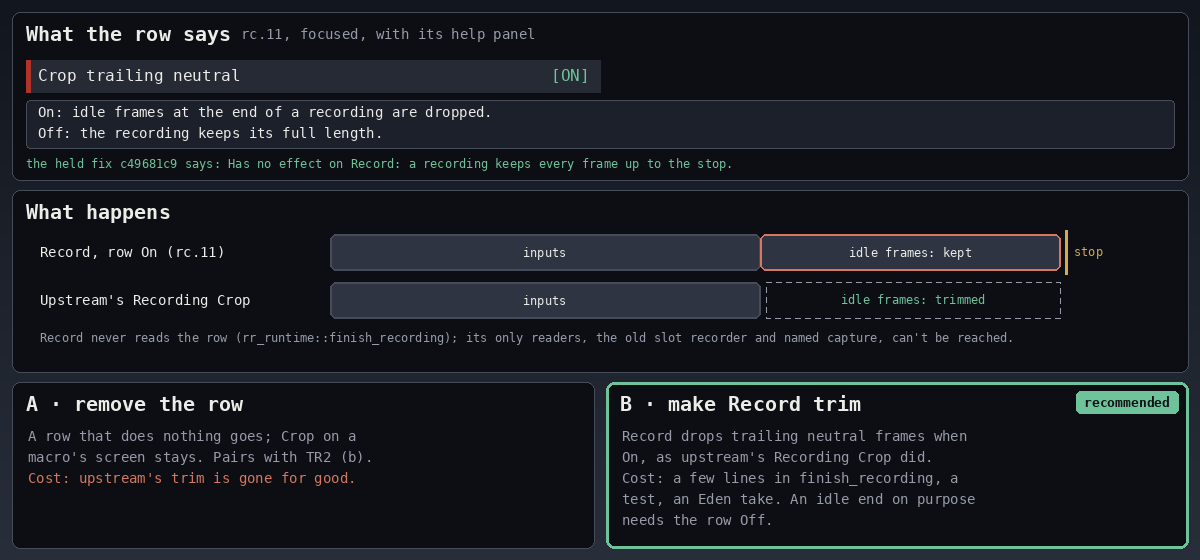
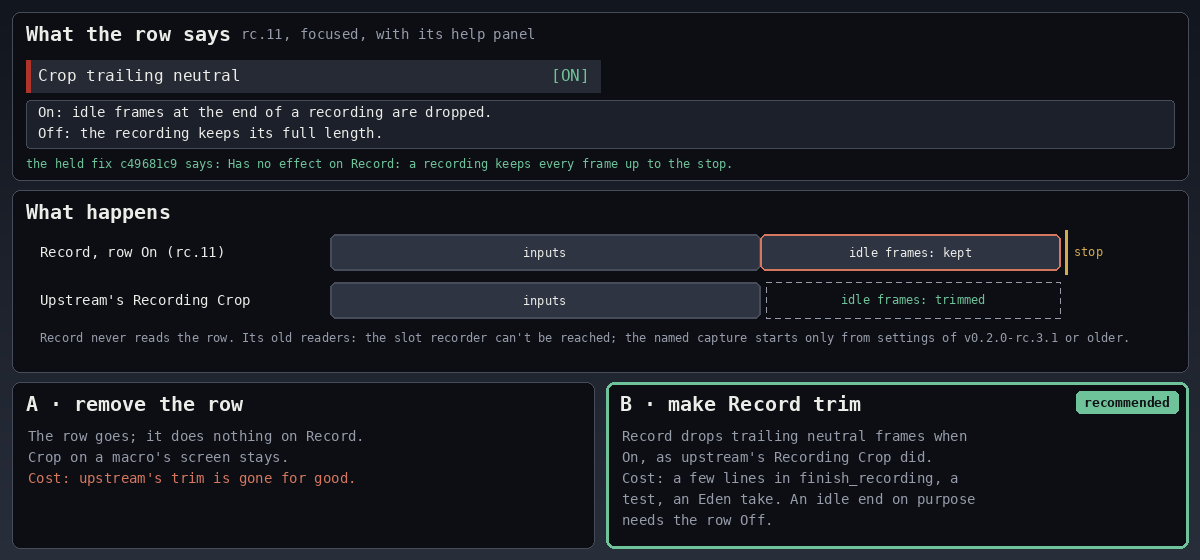
docs: DECISIONS.md TR2 gets integration's final numbers (+35 over; option (b) frees 258), and TR7 says which old reader can still run
The follow-up the primary approved at 09:58Z, from integration's 10:40Z post and artifacts/phase23/tr-fix-23-15/SIZE-OPTION-B.md.

- TR2 now counts three fixes (#23, #15, #25), measured on top of c49681c9: 147,956 against the 147,921 ceiling, +35.
  - Option (a) raises the ceiling by 35.
  - Option (b) deletes the old numbered-slot recorder. Its smallest cut touching no carried file frees 258 lines,
    which covers the 35; all of it is 1,096.
  - The old named capture (354) is no longer part of (b): settings files written by v0.1.0 to v0.2.0-rc.3.1 still
    start it. The recommendation is unchanged: (b) with TR1 A.
- TR7's text and picture: of the row's two old readers, the slot recorder can't be reached, and the named capture
  starts only from those old settings.
- render_decisions_1113.py takes OVER and B_FREES. With TR2's old values it still draws the earlier picture byte for
  byte.

Changed region(s): [[0.2158, 0.5768, 0.8325, 0.6071], [0.0308, 0.7589, 0.2775, 0.85], [0.8942, 0.5768, 0.925, 0.6071]]

diff --git a/tools/render_decisions_1113.py b/tools/render_decisions_1113.py
@@ -18,8 +18,10 @@ TILE, TILE_HI, PANEL, DARK, P1, CPU = d.TILE, d.TILE_HI, d.PANEL, d.DARK, d.P1, 
 W = d.WIDE
 MID = W // 2
 
-# TR2: what option (b) frees, in sloc4 lines, once integration has measured it (None: still measuring).
-B_FREES = None
+# TR2, sloc4 lines (integration's 10:40Z post): how far c49681c9 plus integration's #23, #15 and #25 go over the
+# ceiling, and what option (b) frees: the smallest cut of the old numbered-slot recorder that touches no carried file.
+OVER = 35
+B_FREES = 258
 
 
 # ---------------------------------------------------------------------------------------------------
@@ -133,40 +135,43 @@ def tr1_slots():
 def tr2_size_gate():
     c = d.DCanvas(W, 460)
     y = frame(c, 12, 12, W - 12, 236, "TrainingRooms' size gate", "sloc4, tools/size_gate.py; ceiling in size-budget.toml")
-    lo, hi, x0, x1 = 147700, 148000, 420, W - 240
+    ceiling = 147921
+    over = ceiling + OVER
+    after_b = None if B_FREES is None else over - B_FREES
+    lo = min(147700, (after_b if after_b is not None else over) - 120)
+    hi, x0, x1 = max(148000, over + 30), 420, W - 240
 
     def X(v):
         return x0 + (v - lo) / (hi - lo) * (x1 - x0)
 
-    ceiling = 147921
     bars = [("main today", ceiling, LINE, "147,921 (headroom 0)"),
-            ("+ integration's #23 and #15 fixes", ceiling + 46, BAD, "147,967 (+46 over)")]
+            ("+ the three fixes (#23 #15 #25)", over, BAD, f"{over:,} (+{OVER} over)")]
     yy = y + 10
     for label, v, col, note in bars:
         c.text(40, yy + 6, label, "xs", FG)
         c.rect(X(lo), yy, X(v), yy + 28, fill=TILE_HI, outline=col, width=2, radius=3)
         c.text(X(v) + 8, yy + 6, note, "xxs", col)
         yy += 44
-    c.text(40, yy + 6, "(b) minus the dead slot code", "xs", FG)
-    if B_FREES is None:
-        c.rect(X(lo), yy, X(ceiling + 46), yy + 28, outline=MUTED, width=1, radius=3)
-        c.text(X(ceiling + 46) + 8, yy + 6, "integration is measuring", "xxs", MUTED)
+    c.text(40, yy + 6, "(b) minus the old slot recorder", "xs", FG)
+    if after_b is None:
+        c.rect(X(lo), yy, X(over), yy + 28, outline=MUTED, width=1, radius=3)
+        c.text(X(over) + 8, yy + 6, "integration is measuring", "xxs", MUTED)
     else:
-        v = ceiling + 46 - B_FREES
-        c.rect(X(lo), yy, X(v), yy + 28, fill=TILE_HI, outline=OURS, width=2, radius=3)
-        c.text(X(v) + 8, yy + 6, f"{v:,} ({B_FREES} lines freed)", "xxs", OURS if v <= ceiling else BAD)
+        col = OURS if after_b <= ceiling else BAD
+        c.rect(X(lo), yy, X(after_b), yy + 28, fill=TILE_HI, outline=col, width=2, radius=3)
+        c.text(X(after_b) + 8, yy + 6, f"{after_b:,} ({B_FREES} freed)", "xxs", col)
     c.line([(X(ceiling), y), (X(ceiling), yy + 36)], ADV, 2, dash=(6, 4))
     c.text(X(ceiling), yy + 40, "ceiling 147,921", "xxs", ADV, "m")
     options(c, 248, 448,
-            ("a · raise the ceiling by 46", ["A new [[budget]] entry at 147,967, with the",
+            (f"a · raise the ceiling by {OVER}", [f"A new [[budget]] entry at {over:,}, with the",
                                             "lead's approval in approved_by.",
                                             "Cost to the player: none. The limit grows",
-                                            "by exactly what the two fixes need."]),
-            ("b · delete the unreachable code", ["The old slot recorder and named capture",
-                                                "(#14) can't be reached; deleting them",
-                                                "makes room. It goes with TR1 A (hide).",
-                                                "Cost to the player: none. With TR1 C the",
-                                                ("slot code is needed: then take (a).", ADV)]),
+                                            "by exactly what the fixes need."]),
+            ("b · delete the old slot recorder", ["Nothing reaches it. Its smallest cut that",
+                                                 f"touches no carried file frees {B_FREES} lines",
+                                                 "(all of it: 1,096). Goes with TR1 A.",
+                                                 "Cost to the player: none. With TR1 C the",
+                                                 ("slot code is needed: then take (a).", ADV)]),
             "b")
     c.save("TR2-size-gate")
 
@@ -288,15 +293,15 @@ def tr7_crop():
         lane(c, y + 48, "Upstream's Recording Crop", [(330, 760, "inputs", LINE)])
         c.line([(766, y + 48), (1060, y + 48), (1060, y + 84), (766, y + 84), (766, y + 48)], MUTED, 1, dash=(5, 5))
         c.text(913, y + 58, "idle frames: trimmed", "xxs", OURS, "m")
-        c.text(40, y + 96, "Record never reads the row (rr_runtime::finish_recording); its only readers, the old "
-               "slot recorder and named capture, can't be reached.", "xxs", MUTED)
+        c.text(40, y + 96, "Record never reads the row. Its old readers: the slot recorder can't be reached; the "
+               "named capture starts only from settings of v0.2.0-rc.3.1 or older.", "xxs", MUTED)
     bug("TR7-crop", "Crop trailing neutral", "toggle", "ON",
         ["On: idle frames at the end of a recording are dropped.",
          "Off: the recording keeps its full length."],
         "Has no effect on Record: a recording keeps every frame up to the stop.",
         draw,
-        ("A · remove the row", ["A row that does nothing goes; Crop on a",
-                                "macro's screen stays. Pairs with TR2 (b).",
+        ("A · remove the row", ["The row goes; it does nothing on Record.",
+                                "Crop on a macro's screen stays.",
                                 ("Cost: upstream's trim is gone for good.", BAD)]),
         ("B · make Record trim", ["Record drops trailing neutral frames when",
                                   "On, as upstream's Recording Crop did.",

diff --git a/docs/DECISIONS.md b/docs/DECISIONS.md
@@ -609,7 +609,7 @@ recommended option has a **green outline**. The pictures are drawn by `tools/ren
 | # | Decision | Recommendation |
 | --- | --- | --- |
 | TR1 | Playback Slot 1–5 and Hitstun timing (#8) | A: hide them |
-| TR2 | Size gate after integration's #23 and #15 fixes | (b): delete the unreachable slot code, with TR1 A |
+| TR2 | Size gate after integration's #23, #15 and #25 fixes | (b): delete the old slot recorder (258 lines), with TR1 A |
 | TR3 | HUD Off (#2) | A: keep it |
 | TR4 | Pummel Delay without a Throw (#4) | A: keep it |
 | TR5 | Respawn on platform with Save States Off (#9) | B: make it work |
@@ -647,15 +647,20 @@ delete the slot code.
 
 ![TR1 playback slots](decisions/TR1-playback-slots.png)
 
-#### TR2 · The size gate after integration's #23 and #15 fixes
+#### TR2 · The size gate after integration's #23, #15 and #25 fixes
 
-How to make room for integration's two bug fixes: the pop-up's B close and the Loop list. They put the code 46 lines
-over `size-budget.toml` (147,967 against a ceiling of 147,921).
+How to make room for integration's three bug fixes: the pop-up's B close, the Loop list, and the Setup library's
+restore after a live swap. On top of the held fix they put the code 35 lines over `size-budget.toml`: 147,956 against
+a ceiling of 147,921 (integration, 10:40Z).
 
-- **(a) · raise the ceiling by 46:** a new `[[budget]]` entry with the lead's approval. Cost to the player: none.
-- **(b) · delete the unreachable code:** the old slot recorder and named capture can't be reached (#14). Deleting them
-  makes room. Cost to the player: none. Integration is measuring how much it frees (asked 09:35Z); the number will be
-  added here.
+- **(a) · raise the ceiling by 35:** a new `[[budget]]` entry with the lead's approval. Cost to the player: none.
+- **(b) · delete the old numbered-slot recorder:** nothing reaches it (#14). Its smallest cut that touches no carried
+  file frees 258 lines, which covers the 35; all of it is 1,096 lines. Cost to the player: none. To build: a rebase
+  and re-measure, and an Eden check of the settings migration it touches.
+- **Not part of (b):** the old named capture (354 lines). Settings files written by v0.1.0 to v0.2.0-rc.3.1 (Source
+  Named Library plus Trigger Save State Load) still start it on every load.
+
+Integration's measurement: `artifacts/phase23/tr-fix-23-15/SIZE-OPTION-B.md`, in the workspace.
 
 **Recommendation: (b), together with TR1 A.** Code that can't run costs nothing to delete, and the budget stays a real
 limit. If TR1 is C, the slot code is needed: then (a).
@@ -720,7 +725,8 @@ or a chain, and combo drills, ask Fighter Mismatch whatever it says.
 #### TR7 · Crop trailing neutral (#14)
 
 Whether Record should drop the idle frames at the end of a recording when this row is On. Today Record never reads the
-row, so it does nothing.
+row. Of its two old readers, the slot recorder can't be reached, and the named capture starts only from settings of
+v0.2.0-rc.3.1 or older.
 
 - **A · remove the row:** Crop on a macro's screen stays. Cost to the player: upstream's automatic trim is gone.
 - **B · make Record trim:** as upstream's Recording Crop did (default On). Cost: a few lines and a test, and one Eden
